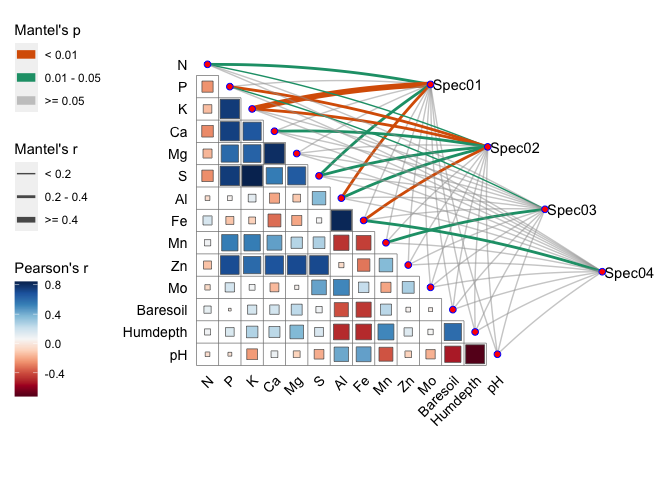
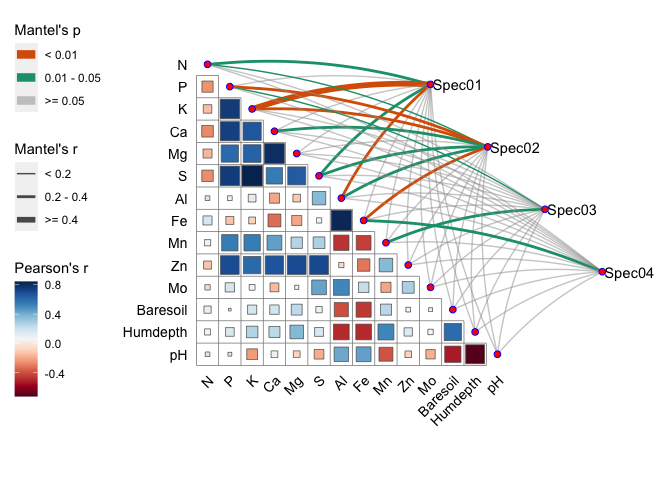
add function for network

Changed region(s): [[0.3125, 0.125, 0.9062, 0.7188]]

diff --git a/README.md b/README.md
@@ -181,7 +181,7 @@ mantel <- mantel_test(varespec, varechem,
 
 qcorrplot(correlate(varechem), type = "lower", diag = FALSE) +
   geom_square() +
-  anno_link(aes(colour = pd, size = rd), data = mantel, curvature = 0.05) +
+  anno_link(aes(colour = pd, size = rd), data = mantel, curvature = 0.1) +
   scale_fill_gradientn(colours = RColorBrewer::brewer.pal(11, "RdBu")) +
   scale_size_manual(values = c(0.5, 1, 2)) +
   scale_colour_manual(values = c("#D95F02", "#1B9E77", "#A2A2A288")) +
